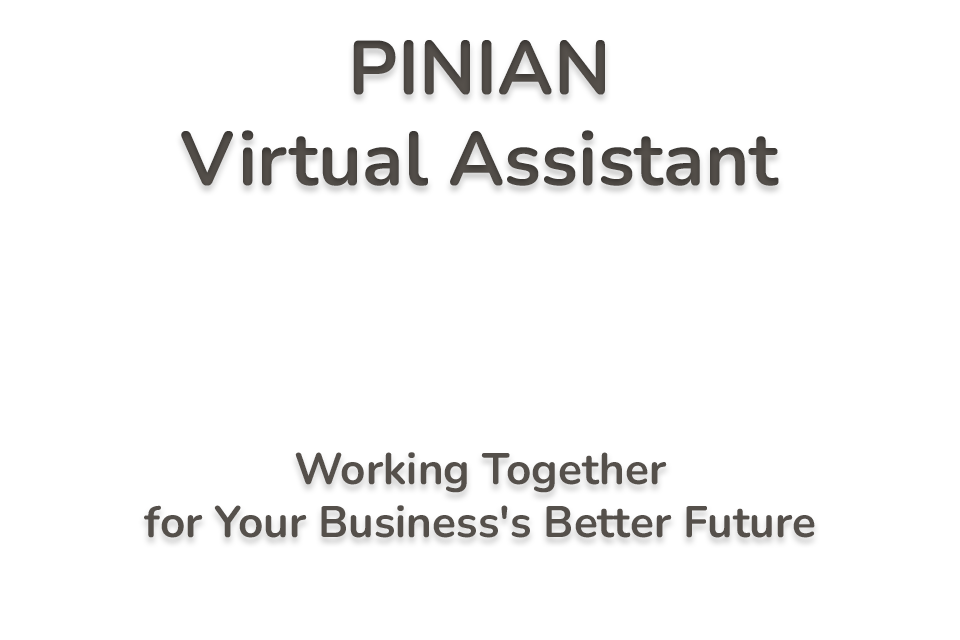
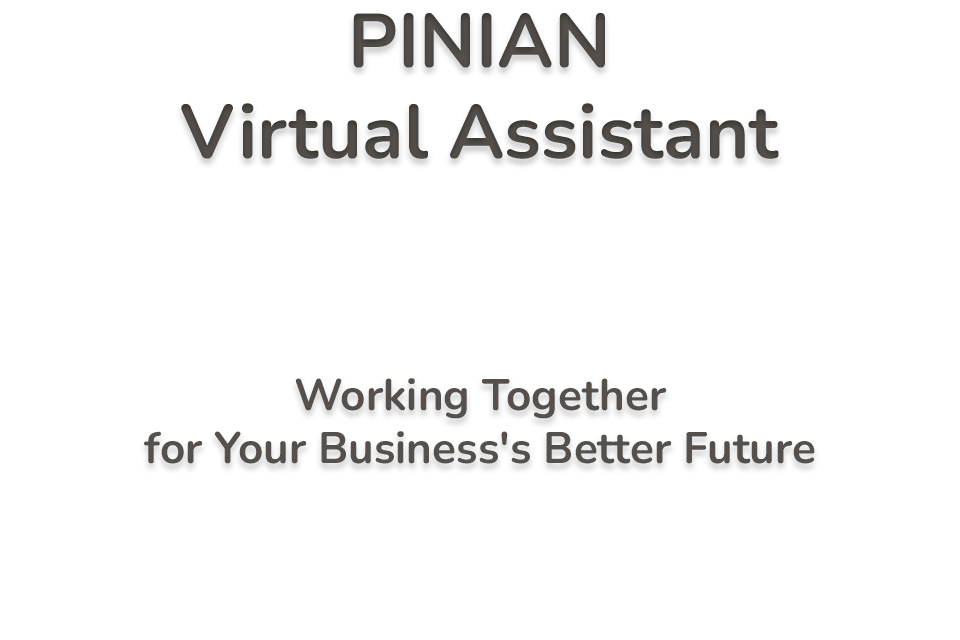
Add files via upload

Changed region(s): [[0.1875, 0.0, 0.8125, 0.3125], [0.125, 0.5938, 0.875, 0.8438]]

diff --git a/UGluaWFuVkEtTU1hbmFnb3NWQ2FyZA/index.html b/UGluaWFuVkEtTU1hbmFnb3NWQ2FyZA/index.html
@@ -11,15 +11,15 @@
             </p> <!----> <p class="jobtitle">
               IT Systems Specialist
             </p> <p class="bizname">
-              Pinian Virtual Assistant
-            </p></div> <!----> <a id="cta" rel="noreferrer" download="" target="_blank" aria-label="Save Contact" style="background-color: rgb(255, 215, 193);" href="mannymanago.vcf"><div class="icon iconColor"><svg viewBox="0 0 24 24" xmlns="http://www.w3.org/2000/svg" xml:space="preserve" style="fill-rule:evenodd;clip-rule:evenodd;stroke-linecap:round;stroke-linejoin:round;stroke-miterlimit:2"><path style="fill:none" d="M0 0h24v24H0z"></path><circle cx="8.5" cy="7" r="4" style="fill:none;stroke:#fff;stroke-width:2.29px" transform="matrix(.875 0 0 .875 4.563 -.625)"></circle><path d="M86 181c0-3.863 3.137-7 7-7s7 3.137 7 7" style="fill:none;stroke:#fff;stroke-width:2px" transform="translate(-81 -163)"></path><path d="M104 168v6m3-3-3 3-3-3" style="fill:none;fill-rule:nonzero;stroke:#fff;stroke-width:2px" transform="translate(-92 -152)"></path></svg></div> <p class="iconColor">Save Contact</p></a> <div class="actions"><div class="actionsC"><div class="actionBtn"><a href="tel:+1 (847) 834-4824" target="_blank" rel="noopener noreferrer" aria-label="Office" style="background-color: rgb(255, 215, 193);"><div class="icon iconColor"><svg viewBox="0 0 24 24" xmlns="http://www.w3.org/2000/svg" xml:space="preserve" style="fill-rule:evenodd;clip-rule:evenodd;stroke-linecap:round;stroke-linejoin:round;stroke-miterlimit:2"><path style="fill:none" d="M0 0h24v24H0z"></path><path d="M11.5 22a.952.952 0 0 1-1.052.945c-4.358-.544-7.851-4.338-8.379-8.39a.938.938 0 0 1 .936-1.046c.399-.009.847-.009 1.202-.009.388 0 .738.237.882.597l.478 1.196a.95.95 0 0 1-.21 1.025l-.107.107a.951.951 0 0 0-.181 1.091c.495.825 1.59 1.92 2.425 2.396a.927.927 0 0 0 1.066-.177c.05-.02.086-.056.122-.092a.95.95 0 0 1 1.025-.21l1.196.478c.36.144.597.494.597.882V22Z" style="fill:none;stroke:#fff;stroke-width:.95px" transform="translate(-2.21 -26.421) scale(2.10526)"></path></svg></div></a> <p class="textColor">
-                  Office
-                </p></div></div><div class="actionsC"><div class="actionBtn"><a target="_blank" rel="noopener noreferrer" aria-label="Mobile" style="background-color: rgb(255, 215, 193);" href="tel:+1 (224) 244-8840"><div class="icon iconColor"><svg viewBox="0 0 24 24" xmlns="http://www.w3.org/2000/svg" xml:space="preserve" style="fill-rule:evenodd;clip-rule:evenodd;stroke-linecap:round;stroke-linejoin:round;stroke-miterlimit:2"><path style="fill:none" d="M0 0h24v24H0z"></path><path d="M11.5 22a.952.952 0 0 1-1.052.945c-4.358-.544-7.851-4.338-8.379-8.39a.938.938 0 0 1 .936-1.046c.399-.009.847-.009 1.202-.009.388 0 .738.237.882.597l.478 1.196a.95.95 0 0 1-.21 1.025l-.107.107a.951.951 0 0 0-.181 1.091c.495.825 1.59 1.92 2.425 2.396a.927.927 0 0 0 1.066-.177c.05-.02.086-.056.122-.092a.95.95 0 0 1 1.025-.21l1.196.478c.36.144.597.494.597.882V22Z" style="fill:none;stroke:#fff;stroke-width:.95px" transform="translate(-2.21 -26.421) scale(2.10526)"></path></svg></div></a> <p class="textColor">
+              PINIAN Virtual Assistant
+            </p></div> <!----> <a id="cta" rel="noreferrer" download="" target="_blank" aria-label="Save Contact" style="background-color: rgb(255, 215, 193);" href="mannymanago.vcf"><div class="icon iconColor"><svg viewBox="0 0 24 24" xmlns="http://www.w3.org/2000/svg" xml:space="preserve" style="fill-rule:evenodd;clip-rule:evenodd;stroke-linecap:round;stroke-linejoin:round;stroke-miterlimit:2"><path style="fill:none" d="M0 0h24v24H0z"></path><circle cx="8.5" cy="7" r="4" style="fill:none;stroke:#fff;stroke-width:2.29px" transform="matrix(.875 0 0 .875 4.563 -.625)"></circle><path d="M86 181c0-3.863 3.137-7 7-7s7 3.137 7 7" style="fill:none;stroke:#fff;stroke-width:2px" transform="translate(-81 -163)"></path><path d="M104 168v6m3-3-3 3-3-3" style="fill:none;fill-rule:nonzero;stroke:#fff;stroke-width:2px" transform="translate(-92 -152)"></path></svg></div> <p class="iconColor">Save Contact</p></a> <div class="actions"><div class="actionsC"><div class="actionBtn"><a href="tel:+1 (224) 244-8840" target="_blank" rel="noopener noreferrer" aria-label="Mobile" style="background-color: rgb(255, 215, 193);"><div class="icon iconColor"><svg viewBox="0 0 24 24" xmlns="http://www.w3.org/2000/svg" xml:space="preserve" style="fill-rule:evenodd;clip-rule:evenodd;stroke-linecap:round;stroke-linejoin:round;stroke-miterlimit:2"><path style="fill:none" d="M0 0h24v24H0z"></path><path d="M11.5 22a.952.952 0 0 1-1.052.945c-4.358-.544-7.851-4.338-8.379-8.39a.938.938 0 0 1 .936-1.046c.399-.009.847-.009 1.202-.009.388 0 .738.237.882.597l.478 1.196a.95.95 0 0 1-.21 1.025l-.107.107a.951.951 0 0 0-.181 1.091c.495.825 1.59 1.92 2.425 2.396a.927.927 0 0 0 1.066-.177c.05-.02.086-.056.122-.092a.95.95 0 0 1 1.025-.21l1.196.478c.36.144.597.494.597.882V22Z" style="fill:none;stroke:#fff;stroke-width:.95px" transform="translate(-2.21 -26.421) scale(2.10526)"></path></svg></div></a> <p class="textColor">
                   Mobile
-                </p></div></div><div class="actionsC"><div class="actionBtn"><a href="https://pinianva.com/" target="_blank" rel="noopener noreferrer" aria-label="Website" style="background-color: rgb(255, 215, 193);"><div class="icon iconColor"><svg viewBox="0 0 24 24" xmlns="http://www.w3.org/2000/svg" xml:space="preserve" style="fill-rule:evenodd;clip-rule:evenodd;stroke-linecap:round;stroke-linejoin:round;stroke-miterlimit:2"><g><path style="fill:none" d="M0 0h24v24H0z"></path><clipPath id="a"><path d="M0 0h24v24H0z"></path></clipPath><g clip-path="url(#a)"><circle cx="12" cy="12" r="10" style="fill:none;stroke:#fff;stroke-width:2px"></circle><ellipse cx="40" cy="40" rx="4" ry="10" style="fill:none;stroke:#fff;stroke-width:2px;stroke-linejoin:miter" transform="translate(-28 -28)"></ellipse><path d="M40 50s-2-4-2-10 2-10 2-10" style="fill:none;stroke:#fff;stroke-width:2px" transform="rotate(-90 11.5 39.5)"></path></g></g></svg></div></a> <p class="textColor">
-                  Website
-                </p></div></div><div class="actionsC"><div class="actionBtn"><a target="_blank" rel="noopener noreferrer" aria-label="Email" style="background-color: rgb(255, 215, 193);" href="mailto:mmanago@pinianva.com"><div class="icon iconColor"><svg viewBox="0 0 24 24" xmlns="http://www.w3.org/2000/svg" xml:space="preserve" style="fill-rule:evenodd;clip-rule:evenodd;stroke-linecap:round;stroke-linejoin:round;stroke-miterlimit:2"><path style="fill:none" d="M0 0h24v24H0z"></path><path d="M22 33.75c0-.966-.896-1.75-2-1.75H4c-1.104 0-2 .784-2 1.75v10.5c0 .966.896 1.75 2 1.75h16c1.104 0 2-.784 2-1.75v-10.5Z" style="fill:none;stroke:#fff;stroke-width:1.86px" transform="matrix(1 0 0 1.14286 0 -32.571)"></path><path d="m18 7.042-6 2.625-6-2.625" style="fill:none;fill-rule:nonzero;stroke:#fff;stroke-width:1.86px" transform="matrix(1 0 0 1.14286 0 1.952)"></path></svg></div></a> <p class="textColor">
+                </p></div></div><div class="actionsC"><div class="actionBtn"><a href="tel: +1 (847) 834-4824" target="_blank" rel="noopener noreferrer" aria-label="Office" style="background-color: rgb(255, 215, 193);"><div class="icon iconColor"><svg viewBox="0 0 24 24" xmlns="http://www.w3.org/2000/svg" xml:space="preserve" style="fill-rule:evenodd;clip-rule:evenodd;stroke-linecap:round;stroke-linejoin:round;stroke-miterlimit:2"><path style="fill:none" d="M0 0h24v24H0z"></path><path d="M11.5 22a.952.952 0 0 1-1.052.945c-4.358-.544-7.851-4.338-8.379-8.39a.938.938 0 0 1 .936-1.046c.399-.009.847-.009 1.202-.009.388 0 .738.237.882.597l.478 1.196a.95.95 0 0 1-.21 1.025l-.107.107a.951.951 0 0 0-.181 1.091c.495.825 1.59 1.92 2.425 2.396a.927.927 0 0 0 1.066-.177c.05-.02.086-.056.122-.092a.95.95 0 0 1 1.025-.21l1.196.478c.36.144.597.494.597.882V22Z" style="fill:none;stroke:#fff;stroke-width:.95px" transform="translate(-2.21 -26.421) scale(2.10526)"></path></svg></div></a> <p class="textColor">
+                  Office
+                </p></div></div><div class="actionsC"><div class="actionBtn"><a href="mailto:mmanago@pinianva.com" target="_blank" rel="noopener noreferrer" aria-label="Email" style="background-color: rgb(255, 215, 193);"><div class="icon iconColor"><svg viewBox="0 0 24 24" xmlns="http://www.w3.org/2000/svg" xml:space="preserve" style="fill-rule:evenodd;clip-rule:evenodd;stroke-linecap:round;stroke-linejoin:round;stroke-miterlimit:2"><path style="fill:none" d="M0 0h24v24H0z"></path><path d="M22 33.75c0-.966-.896-1.75-2-1.75H4c-1.104 0-2 .784-2 1.75v10.5c0 .966.896 1.75 2 1.75h16c1.104 0 2-.784 2-1.75v-10.5Z" style="fill:none;stroke:#fff;stroke-width:1.86px" transform="matrix(1 0 0 1.14286 0 -32.571)"></path><path d="m18 7.042-6 2.625-6-2.625" style="fill:none;fill-rule:nonzero;stroke:#fff;stroke-width:1.86px" transform="matrix(1 0 0 1.14286 0 1.952)"></path></svg></div></a> <p class="textColor">
                   Email
-                </p></div></div><div class="actionsC"><div class="actionBtn"><a href="https://www.openstreetmap.org/way/577610047" target="_blank" rel="noopener noreferrer" aria-label="Location" style="background-color: rgb(255, 215, 193);"><div class="icon iconColor"><svg viewBox="0 0 24 24" xmlns="http://www.w3.org/2000/svg" xml:space="preserve" style="fill-rule:evenodd;clip-rule:evenodd;stroke-linecap:round;stroke-linejoin:round;stroke-miterlimit:2"><g><path style="fill:none" d="M0 0h24v24H0z"></path><circle cx="12" cy="10" r="3" style="fill:none;stroke:#fff;stroke-width:2px"></circle><path d="M40 29c4.967 0 9 4.033 9 9 0 7-9 13-9 13s-9-6.033-9-13c0-4.967 4.033-9 9-9Z" style="fill:none;stroke:#fff;stroke-width:2px" transform="translate(-28 -28)"></path></g></svg></div></a> <p class="textColor">
+                </p></div></div><div class="actionsC"><div class="actionBtn"><a target="_blank" rel="noopener noreferrer" aria-label="Website" style="background-color: rgb(255, 215, 193);" href="https://pinianva.com/"><div class="icon iconColor"><svg viewBox="0 0 24 24" xmlns="http://www.w3.org/2000/svg" xml:space="preserve" style="fill-rule:evenodd;clip-rule:evenodd;stroke-linecap:round;stroke-linejoin:round;stroke-miterlimit:2"><g><path style="fill:none" d="M0 0h24v24H0z"></path><clipPath id="a"><path d="M0 0h24v24H0z"></path></clipPath><g clip-path="url(#a)"><circle cx="12" cy="12" r="10" style="fill:none;stroke:#fff;stroke-width:2px"></circle><ellipse cx="40" cy="40" rx="4" ry="10" style="fill:none;stroke:#fff;stroke-width:2px;stroke-linejoin:miter" transform="translate(-28 -28)"></ellipse><path d="M40 50s-2-4-2-10 2-10 2-10" style="fill:none;stroke:#fff;stroke-width:2px" transform="rotate(-90 11.5 39.5)"></path></g></g></svg></div></a> <p class="textColor">
+                  Website
+                </p></div></div><div class="actionsC"><div class="actionBtn"><a target="_blank" rel="noopener noreferrer" aria-label="Location" style="background-color: rgb(255, 215, 193);" href="https://www.openstreetmap.org/way/577610047"><div class="icon iconColor"><svg viewBox="0 0 24 24" xmlns="http://www.w3.org/2000/svg" xml:space="preserve" style="fill-rule:evenodd;clip-rule:evenodd;stroke-linecap:round;stroke-linejoin:round;stroke-miterlimit:2"><g><path style="fill:none" d="M0 0h24v24H0z"></path><circle cx="12" cy="10" r="3" style="fill:none;stroke:#fff;stroke-width:2px"></circle><path d="M40 29c4.967 0 9 4.033 9 9 0 7-9 13-9 13s-9-6.033-9-13c0-4.967 4.033-9 9-9Z" style="fill:none;stroke:#fff;stroke-width:2px" transform="translate(-28 -28)"></path></g></svg></div></a> <p class="textColor">
                   Location
                 </p></div></div></div> <div class="actions secondary"><div class="actionsC"><div class="actionBtn secBtn"><a href="https://facebook.com/https://www.facebook.com/profile.php?id=61562254176657" target="_blank" rel="noopener noreferrer" aria-label="Facebook" style="background-color: rgb(24, 119, 242);"><div class="icon"><svg xmlns="http://www.w3.org/2000/svg" fill="#fff" viewBox="0 0 24 24"><path d="M12.001 2.002c-5.522 0-9.999 4.477-9.999 9.999 0 4.99 3.656 9.126 8.437 9.879v-6.988h-2.54v-2.891h2.54V9.798c0-2.508 1.493-3.891 3.776-3.891 1.094 0 2.24.195 2.24.195v2.459h-1.264c-1.24 0-1.628.772-1.628 1.563v1.875h2.771l-.443 2.891h-2.328v6.988C18.344 21.129 22 16.992 22 12.001c0-5.522-4.477-9.999-9.999-9.999z"></path></svg></div></a></div></div></div> <div class="featured"><!----> </div></main> <!----><script src="./qrcode.min.js"></script><script>let m=document.getElementById("modal"),c=document.getElementById("close"),ki=document.getElementById("keyView"),cv=document.getElementById("copyView"),curl=document.getElementById("copyURL"),qrv=document.getElementById("qrView"),qr=document.getElementById("qr"),s=document.getElementById("share"),sqr=document.getElementById("showQR"),sk=document.getElementById("showKey");function tC(e){"2rem"==e.style.top?(e.style.visibility="visible",e.style.top="0px",e.style.opacity=1):(e.style.top="2rem",e.style.opacity=0,setTimeout(()=>{e.style.visibility="hidden"},200))}function dN(e){e.style.display="none"}window.addEventListener("load",()=>{document.querySelector("#topActions").style.display="flex",qr.innerHTML=new QRCode({content:window.location.href,container:"svg-viewbox",join:!0,ecl:"L",padding:0}).svg()}),navigator.canShare?s.addEventListener("click",()=>{navigator.share({title:document.title,text:"You can view my Digital Business Card here:",url:window.location.href})}):s.addEventListener("click",()=>{tC(m),cv.style.display="flex",dN(qrv),ki&&dN(ki)}),sqr.addEventListener("click",()=>{tC(m),qrv.style.display="block",dN(cv),ki&&dN(ki)}),sk&&sk.addEventListener("click",()=>{tC(m),ki&&(ki.style.display="flex"),dN(cv),dN(qrv)}),c.addEventListener("click",()=>tC(m)),curl.addEventListener("click",async()=>{let e=curl.querySelectorAll(".iconColor")[1];await navigator.clipboard.writeText(window.location.href).then(t=>{e.innerText="Copied",setTimeout(()=>{e.innerText="Copy URL"},1e3)})});</script><script>let pC=document.querySelectorAll(".pCtrl"),pP=document.querySelectorAll(".playPause"),srcs=document.querySelectorAll(".source");srcs.forEach(e=>{e.style.pointerEvents="none",e.removeAttribute("controls")}),pC.forEach((e,l)=>{e.style.display="flex";let r=e.querySelector(".currentTime"),s=e.querySelector(".seekBar"),t=e.querySelector(".playPause"),a=t.querySelector(".play"),c=t.querySelector(".pause");srcs[l].addEventListener("timeupdate",()=>{let e=srcs[l].currentTime,t=100/srcs[l].duration*e;s.value=t,100==t&&(s.value=0,a.style.display="block",c.style.display="none");let o=Math.floor(e/60),y=Math.floor(e%60);o.toString().length<2&&(o="0"+o),y.toString().length<2&&(y="0"+y),r.value=o+":"+y}),s.addEventListener("change",()=>{srcs[l].currentTime=srcs[l].duration*(parseInt(s.value)/100)}),t.addEventListener("click",()=>{srcs[l].paused?(srcs.forEach((e,r)=>{l!=r&&(e.paused||e.pause())}),pP.forEach((e,l)=>{let r=e.querySelector(".play"),s=e.querySelector(".pause");r.style.display="block",s.style.display="none"}),srcs[l].play(),a.style.display="none",c.style.display="block"):(srcs[l].pause(),c.style.display="none",a.style.display="block")})});</script></body></html>
